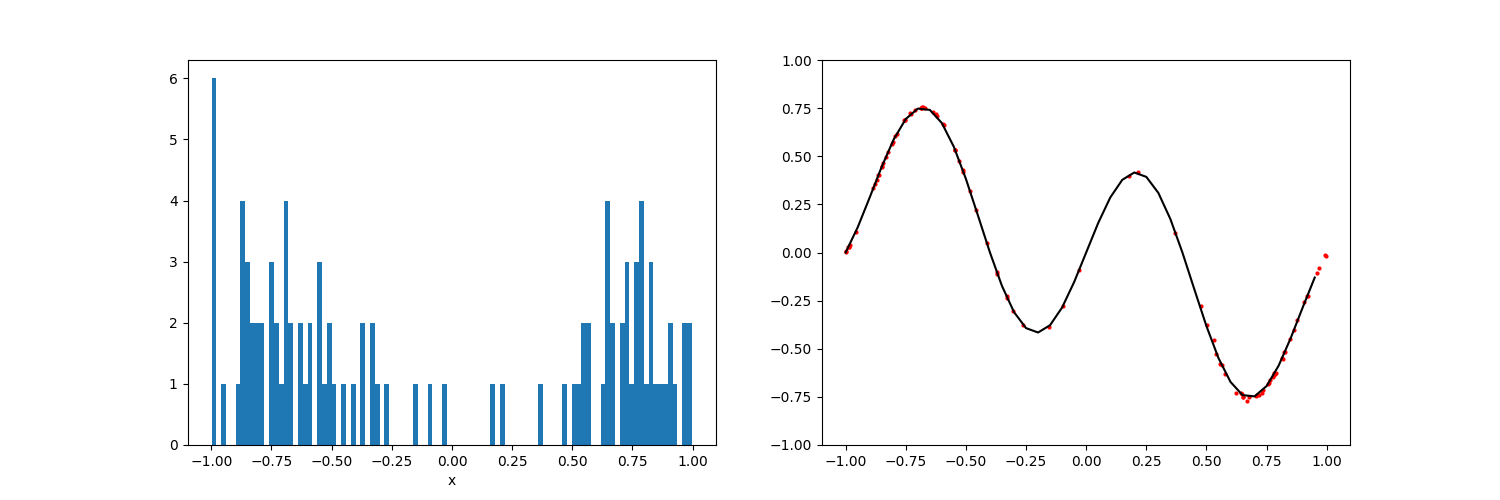
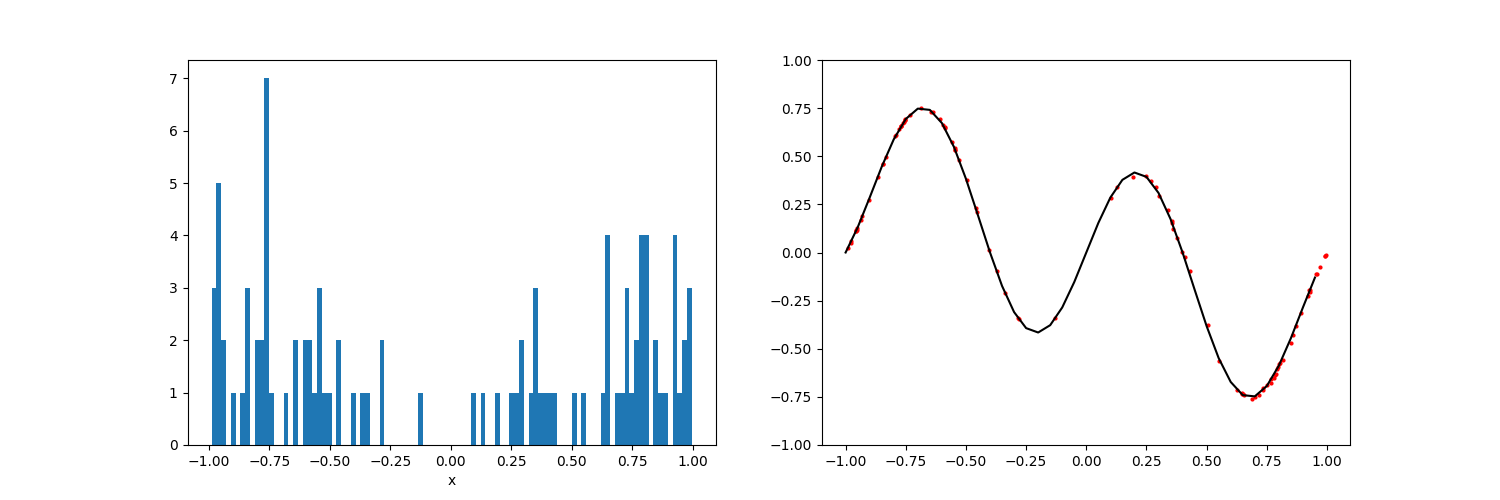
Training data loading and partitioning for k-folds complete.

Changed region(s): [[0.1227, 0.18, 0.46, 0.93], [0.3987, 0.39, 0.4293, 0.48], [0.828, 0.75, 0.8587, 0.81]]

diff --git a/src/net_est/models/regression_bootstrap.py b/src/net_est/models/regression_bootstrap.py
@@ -1,0 +1,58 @@
+"""
+
+This function creates the training data and fits multiple neural network models.
+
+"""
+import numpy as np
+from sklearn.model_selection import train_test_split, KFold
+
+from net_est.data.data_generator import generate_training_data
+
+
+def load_training_val_data(n_models=5):
+    """  Calls data_generator.py to create the training data set.  Applies k-fold partitioning so models are
+    trained on unique data sets.
+
+    Parameters
+    ----------
+    n_models: int
+        The number of models
+
+    Returns
+    -------
+    k_fold_training: dict
+        Each model is specified with the sub-dictionary containing the model training and validation
+
+    """
+    if not isinstance(n_models, int):
+        raise ValueError("The n_models argument must be an integer")
+
+    x, y = generate_training_data(n_samples=1000)
+    x = x[:, np.newaxis]
+    y = y[:, np.newaxis]
+
+    # Create a validation set we'll use for reporting errors across models
+    train_x, test_x, train_y, test_y = train_test_split(x, y, test_size=0.20)
+
+    k_fold_training = {}
+    kf = KFold(n_splits=n_models)
+    fold_cnt = 0
+    for train_ix, test_ix in kf.split(train_x):
+        k_fold_training[f"Model_{fold_cnt}"] = {
+            "x_train": train_x[train_ix, :],
+            "y_train": train_y[train_ix, :],
+            "x_val": train_x[test_ix, :],
+            "y_val": train_y[test_ix, :]
+        }
+        fold_cnt += 1
+
+    # Don't touch these until we're finished
+    k_fold_training['x_test'] = test_x
+    k_fold_training['y_test'] = test_y
+    return k_fold_training
+
+
+# Set up Ray to train multiple models at once, varying only the random weight initialization
+
+if __name__ == '__main__':
+    load_training_val_data()

diff --git a/src/net_est/data/data_generator.py b/src/net_est/data/data_generator.py
@@ -22,14 +22,14 @@ class abs_value_dist(stats.rv_continuous):
         return np.where(x < 0.0, self.neg_cdf(x), self.pos_cdf(x))
 
     @staticmethod
-    def neg_cdf(self, x_in):
+    def neg_cdf(x_in):
         if x_in < -1.0:
             return 0.0
         else:
             return (-1*x_in**2.0 / 2.0) + (1/2)
 
     @staticmethod
-    def pos_cdf(self, x_in):
+    def pos_cdf(x_in):
         if 0.0 < x_in < 1.0:
             return ((x_in**2) / 2.0) + (1/2)
         else:
